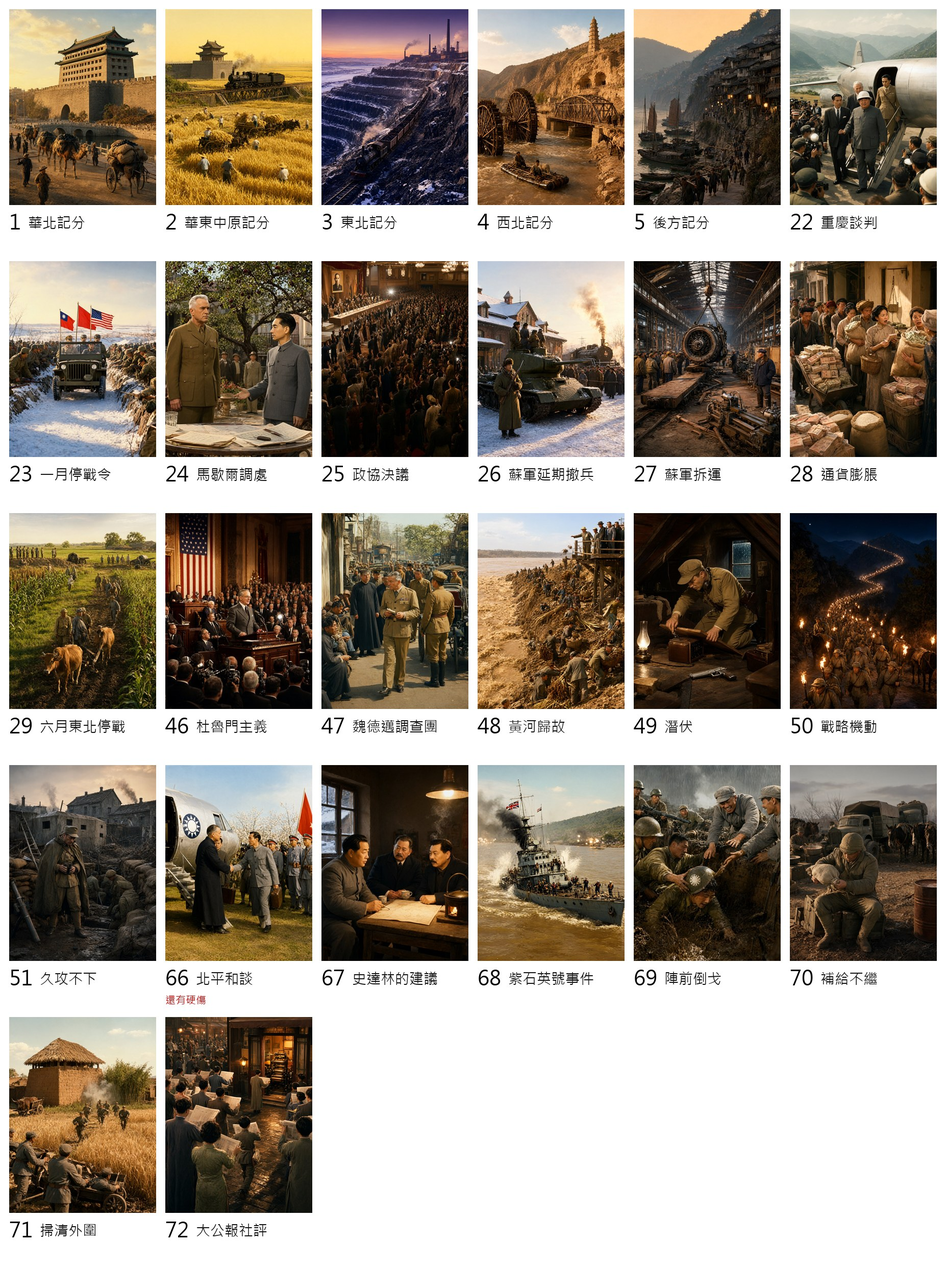
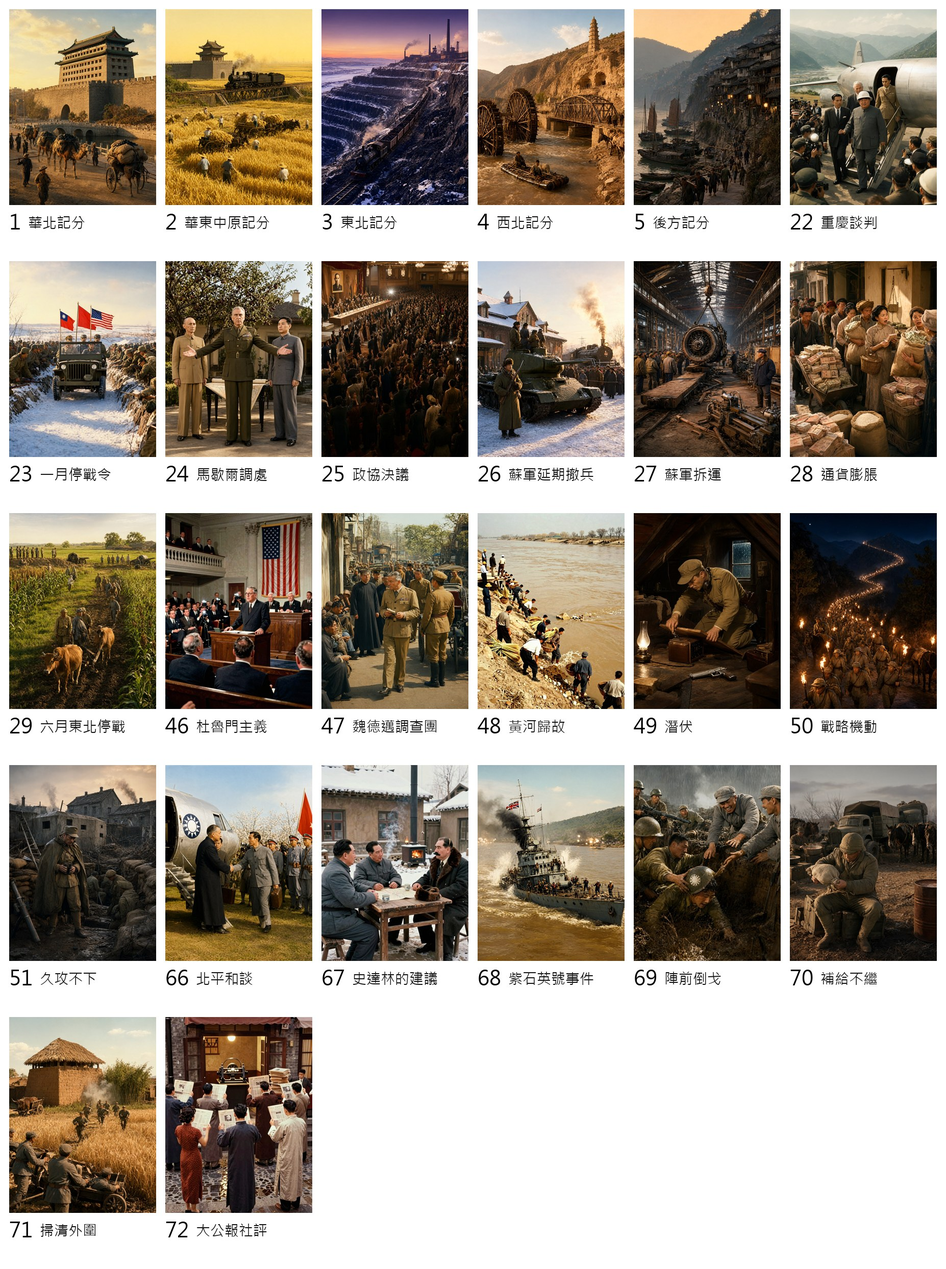
Finalize 74-card image set: 59 confirmed + 15 redo candidates (#22)
- Copy 15 selected redo candidates to final/<card_id>.jpg, matching prompts from redo.json
- Update final.json with 15 new entries from redo candidates (from: redo/..., model/seed/steps)
- Update prompts.json seeds and prompts for 15 cards from redo.json (including 5 with modified scenes)
- Modify scenes.mjs for 5 cards that required scene rewrites (11, 24, 33, 64, 67)
- Regenerate prompts.json and README.md via build.mjs with updated RESEED table
- Generate three final contact sheets (sheet-nationalist.jpg, sheet-communist.jpg, sheet-neutral.jpg) from final/ images
- Add "定案" (Final Set) section to README documenting 74-card finalization
- All 15 cards verified: final/ images byte-identical to redo candidates, seeds and prompts match

ART-VERDICT: 14 pass / 0 fail / 0 todo

diff --git a/art/cards/README.md b/art/cards/README.md
@@ -1,6 +1,11 @@
-# 74 張牌的圖 prompt(#16)
+# 74 張牌的圖 prompt(#16 → #22)
 
-owner 說:「先產生好所有圖片的prompts」。這裡是 74 則 prompt(72 張牌 + 美援、蘇援),圖已經出了(#19):`img/<key>.jpg`,逐張的檢查在 `CHECK.md`,三張對照表是 `sheet-nationalist.jpg`、`sheet-communist.jpg`、`sheet-neutral.jpg`。完整的 prompt、種子、尺寸在 `prompts.json`;下面的表是給你讀的:每張牌畫什麼。覺得哪張畫錯,說牌名和你想要的畫面。
+owner 說:「先產生好所有圖片的prompts」。這裡是 74 則 prompt(72 張牌 + 美援、蘇援)。
+- **#19**(第一輪):完整的 Qwen Image 與 Z-Image Turbo 各 74 張對照,`img/<key>.jpg` 與 `img-zimage/<key>.jpg`,三張對照表是 `sheet-nationalist.jpg`、`sheet-communist.jpg`、`sheet-neutral.jpg`,逐張的檢查在 `CHECK.md` 與 `CHECK-zimage.md`。
+- **#21**(挑圖):owner 選定 59 張(57 張 Qwen + 2 張 Z-Image),15 張重出 4 張候選,在 `redo/<card id>__c<1-4>.jpg`,檢查在 `CHECK-redo.md`,挑圖頁是 `pick.html` / `redo.html`。
+- **#22**(定案):final/ 下 74 張是定案的圖像,59 張來自 #19 和 #21,15 張來自 #21 的 redo 候選,見下「定案」一節。
+
+完整的 prompt、種子、尺寸在 `prompts.json`;下面的表是給你讀的:每張牌畫什麼。
 
 ## 三種風格(你在 #14 挑的),與結尾
 
@@ -19,6 +24,39 @@ owner 說:「先產生好所有圖片的prompts」。這裡是 74 則 prompt(72 
 用 `art/explore/14/r3/workflow_api.json`(Qwen Image 2.1,25 步、cfg 1、euler / simple)當樣板,只換這四個欄位再送給 ComfyUI(`http://127.0.0.1:8188/prompt`):`452.inputs.prompt` = 該筆的 `prompt`,`458.inputs.seed` = `seed`,`456.inputs.width / height` = 768 / 1024,`461.inputs.filename_prefix` = 自訂。`art/explore/14/r3/repro.mjs` 是現成的寫法(把裡面讀 prompts.json 的路徑改成這個檔)。
 
 用 Z-Image Turbo 出的話,樣板是 `art/explore/17/workflow_api_zimage.json`(8 或 20 步),`art/explore/17/gen.mjs` 是現成的寫法;#17 看到 Z-Image 會多出紙邊與小字(結尾那一段擋不住),Qwen 沒有。
+
+## 定案(#22)
+
+**`final/<key>.jpg`**:定案的 74 張,每張都是最終選定的圖像,不再改動。
+- 59 張來自 #19 (#19 直接採用或經 #21 挑選)
+- 15 張來自 #21 的 redo 候選:owner 對 15 張重出候選的選擇是「11-2 12-3 13-3 16-1 17-4 24-1 33-1 36-2 37-4 39-2 53-3 64-4 65-3 67-4 72-4」
+
+**`final.json`**:74 筆記錄,每筆包括 `key`(牌 ID)、`model`(模型:qwen/zimage)、`seed`(種子)、`steps`(步數)、`from`(來源)。
+
+**模型統計**:
+- Qwen Image 2.1(25 步):59 張(所有 Qwen 圖像) + 13 張新加(來自 redo 候選)= 72 張
+- Z-Image Turbo(20 步):0 張(從定案中移除) + 2 張新加(67-4、72-4)= 2 張
+
+**15 張重出的定案**:
+| 牌 | 牌名 | 候選 | 模型 | 種子 |
+|---|---|---|---|---|
+| 11 | 中蘇友好同盟條約 | 2 | Qwen | 21112 |
+| 12 | 還都南京 | 3 | Qwen | 21123 |
+| 13 | 軍事整編會議 | 3 | Qwen | 21133 |
+| 16 | 闖關東 | 1 | Qwen | 21161 |
+| 17 | 上黨戰役 | 4 | Qwen | 21174 |
+| 24 | 馬歇爾調處 | 1 | Qwen | 21241 |
+| 33 | 取締民盟 | 1 | Qwen | 21331 |
+| 36 | 行憲國大 | 2 | Qwen | 21362 |
+| 37 | 美械整編師 | 4 | Qwen | 21374 |
+| 39 | 孟良崮 | 2 | Qwen | 21392 |
+| 53 | 傅作義守華北 | 3 | Qwen | 21533 |
+| 64 | 新政協 | 4 | Qwen | 21644 |
+| 65 | 和平起義 | 3 | Qwen | 21653 |
+| 67 | 史達林的建議 | 4 | Z-Image | 21674 |
+| 72 | 大公報社評 | 4 | Z-Image | 21724 |
+
+**定案對照表**(`final/sheet-*.jpg`):三張聯絡單,格式同 #19,每格下面標編號與牌名,圖來源改成 `final/`(不標紅字)。
 
 ## 畫面表
 
@@ -115,26 +153,3 @@ owner 說:「先產生好所有圖片的prompts」。這裡是 74 則 prompt(72 
 | 5 | 後方記分 | 記分卡 | — | real_tech | 後方:1946 年十一月黃昏,重慶山城從長江對岸望去,石階、吊腳樓、帆船與薄霧。地景。 |
 | — | 美援 | 國軍外援 | — | nat_closeup | 1946 年中國港口碼頭:起重機從美國貨輪吊下卡車,吉普車與卡車整齊排在岸邊,碼頭工人、美軍水兵與國軍軍官(美援)。 |
 | — | 蘇援 | 共軍外援 | — | com_oil(無士兵版) | 1948 年 12 月哈爾濱松花江鐵橋:蘇聯鐵路專家與中國工人用吊車架設鋼樑,火車頭在橋頭等著(蘇援:東北鐵路)。 |
-
-## Z-Image Turbo 的那一半與挑圖(#20)
-
-owner:「圖片用 z image 和 qwen image 各產生一張，讓我選」。Qwen 的 74 張是上面的 `img/`;這裡是同一份 prompt、同一個種子的 Z-Image Turbo 版:
-
-- `img-zimage/<card id>.jpg`:74 張,768 × 1024,JPEG 品質 88,不後製。Z-Image Turbo 20 步、cfg 1、res_multistep / simple、shift 3(`art/explore/17/workflow_api_zimage.json`,走 8188)。一張牌只出一次,不為硬傷重出。
-- `zimage.json`:每張實際用的 `{ key, seed, steps }`(種子與 `prompts.json` 當時的種子相同;之後 Qwen 重出改了 `prompts.json` 的種子,Z-Image 的圖仍可靠這份紀錄重現)。
-- `render-zimage.mjs`:出圖,可續跑(已有的檔案跳過,一張失敗不停整批);`REPRO=1 node art/cards/render-zimage.mjs <key>` 從 `zimage.json` 重出並和交付的檔案逐像素比。
-- `CHECK-zimage.md`:74 列的硬傷清單(框 / 字 / 旗與機徽 / 畸形 / 認不認得出),最前面有統計。
-- `pick/pair-01.jpg` 到 `pair-07.jpg`:並排對照表(`node art/cards/pairs.mjs`),**左 A = Qwen Image 2.1,右 B = Z-Image Turbo**,編號是 `cards.js` 的數字,紅字是兩邊各自的硬傷。
-- `pick.html`:本機挑圖頁(`node art/cards/pick.mjs` 產生;雙擊開,不需伺服器、不載入外部資源)。點圖或按 A / B / X(X = 兩張都不要、重出)選;上方固定列有「已選 n / 74」、還沒選的編號、結果文字(`1A 2B 3X … 美援A 蘇援B`)與「複製」;選擇存在瀏覽器的 localStorage;「全部清除」要按兩次。
-
-## owner 挑完之後:定案 59 張與重出 15 張的候選(#21)
-
-owner 的答案(2026-10-02):A 57 張、B 2 張(46 杜魯門主義、48 黃河歸故)、X 15 張(11、12、13、16、17、24、33、36、37、39、53、64、65、67、72)。
-
-- `final/<card id>.jpg`:定案的 59 張,從挑中的 `img/` 或 `img-zimage/` **原檔複製**(逐位元組相同);`final.json` 記 `{ key, model, seed, steps, from }`。`node art/cards/finalize.mjs` 產生。X 的 15 張要等重出的候選被挑中才進來。
-- `redo/<card id>__c<1-4>.jpg`:X 的 15 張各 4 張候選(768 × 1024,JPEG 品質 88,不後製);`redo.json` 記 60 筆 `{ key, c, model, seed, steps, prompt }`(`node art/cards/redo-prompts.mjs`)。種子 = 21000 + 牌的編號 × 10 + 候選編號。候選 1 到 4 是 Qwen Image 2.1(25 步);`real_tech` 的 X 牌(24、67、72)的候選 4 是 Z-Image Turbo(20 步)。
-- 其中 10 張的 prompt 和 `prompts.json` 一字不差,只換種子;11、24、33、64、67 改寫了 Scene(原文與改文在 `CHECK-redo.md` 最後一節)。
-- `node art/cards/render-redo.mjs` 出圖,可續跑(已有的檔案跳過,一張失敗不停整批);`REPRO=1 node art/cards/render-redo.mjs <key> <N>` 重出候選 N 並和交付的檔案逐像素比。
-- `CHECK-redo.md`:60 列硬傷清單(由 `check-redo-notes.json` 與 `check-redo-build.mjs` 產生)。
-- `redo/sheet-01.jpg` 到 `sheet-03.jpg`:對照表,一列一張牌、候選 1 到 4 由左到右(`node art/cards/redo-sheets.mjs`)。
-- `redo.html`:本機挑圖頁(`node art/cards/redo.mjs` 產生;雙擊開,不需伺服器)。點圖或按 1 / 2 / 3 / 4 / X 選;結果文字 `11-2 12-X 13-4 …`;選擇存在 localStorage(key `civil_war_21_redo_pick`)。
